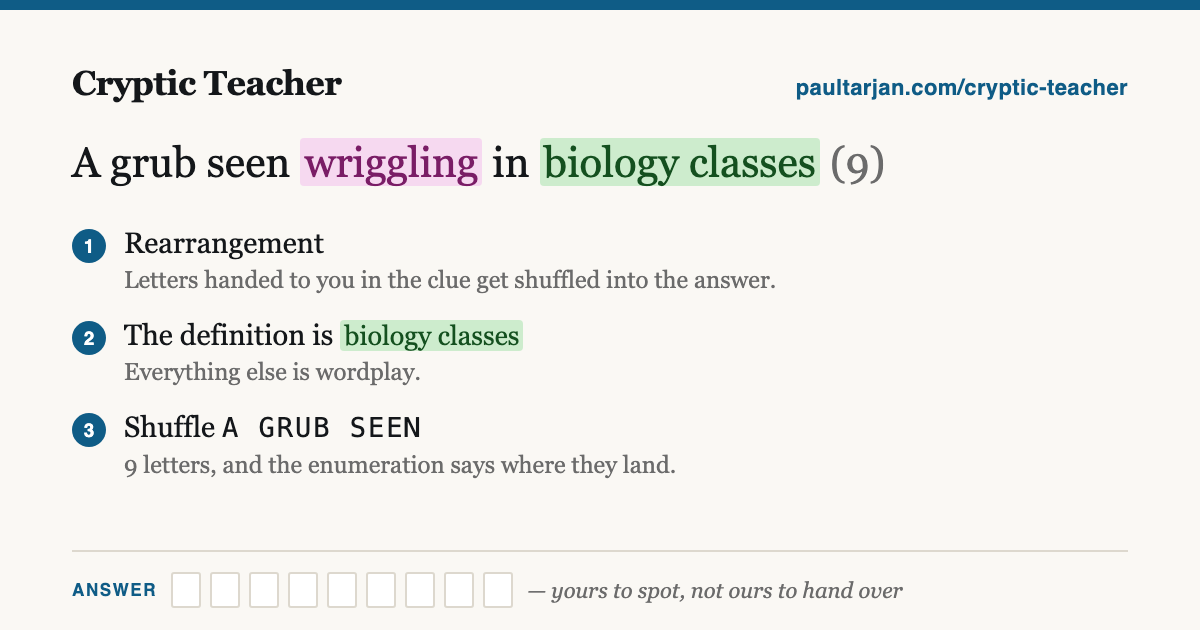
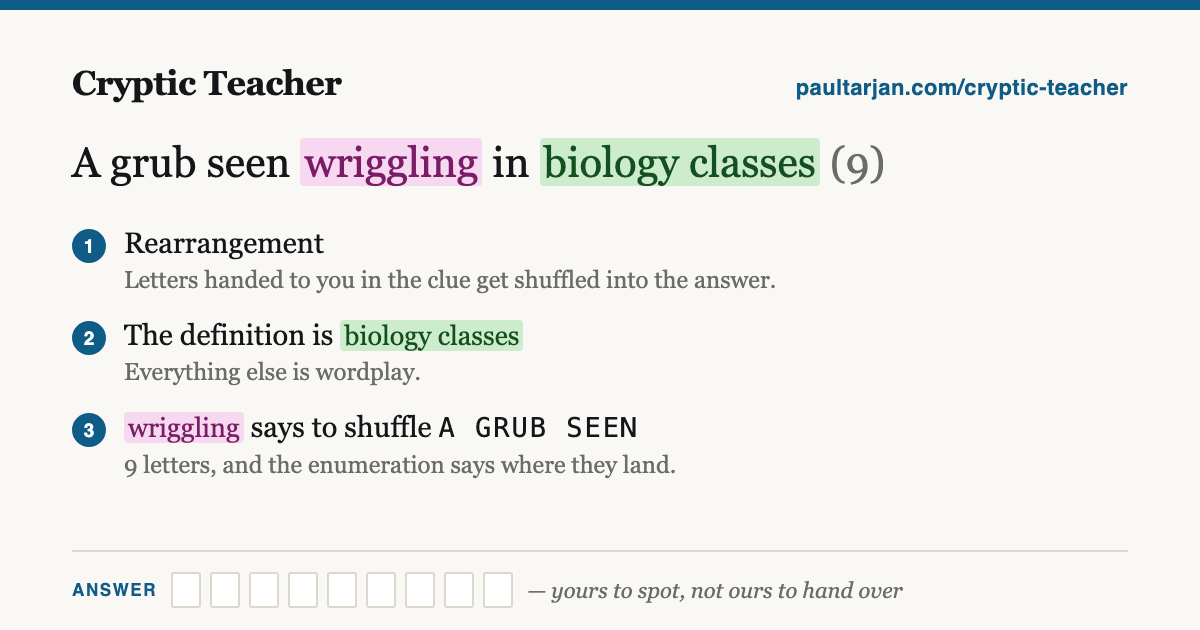
An anagram indicator cannot be made of the fodder's own letters
Reviewing 30,079's card I called its indicator wrong: "School" looked odd and
"to spin" looked like the obvious anagram indicator. It wasn't — spin is inside
the fodder PAID TO SPIN, so its letters were already spoken for, and the
annotation was right all along.

check_indicator_outside_fodder now decides this instead of eyes. Adjacency
cannot: it measures the gap between indicator and fodder, and an indicator
sitting inside the fodder has no gap at all, so it scored as perfectly placed.
Zero violations across all 116 annotations carrying a fodder.

The card was complicit — it painted the indicator pink and never mentioned it,
so rung 3 now reads "<ind> says to shuffle <fodder>". A mark the prose never
explains is a claim the reader takes on trust, and this one didn't survive it.

Changed region(s): [[0.0925, 0.6333, 0.555, 0.7238]]

diff --git a/puzzles/30071/index.html b/puzzles/30071/index.html
@@ -16,7 +16,7 @@
 <meta property="og:title" content="Guardian Cryptic Crossword No 30,071 by Brendan — answers explained">
 <meta property="og:description" content="Every clue in Guardian cryptic crossword No 30,071 by Brendan, published 29 July 2026, with the answer, the definition and how the wordplay works.">
 <meta property="og:url" content="https://paultarjan.com/cryptic-teacher/puzzles/30071/">
-<meta property="og:image" content="https://paultarjan.com/cryptic-teacher/og/30071.png?v=6ce93dee">
+<meta property="og:image" content="https://paultarjan.com/cryptic-teacher/og/30071.png?v=bb0208e5">
 <meta property="og:image:alt" content="The cryptic clue &quot;Owner of trunk that must be repacked for the plane (8)&quot; taken apart: the definition marked, the letters to be rearranged spelled out, and the answer itself left blank.">
 <meta name="twitter:card" content="summary_large_image">
 <script type="application/ld+json">{"@context":"https://schema.org","@type":"Article","headline":"Guardian Cryptic Crossword No 30,071 by Brendan — answers explained","url":"https://paultarjan.com/cryptic-teacher/puzzles/30071/","description":"Every clue in Guardian cryptic crossword No 30,071 by Brendan, published 29 July 2026, with the answer, the definition and how the wordplay works.","author":{"@type":"Person","name":"Paul Tarjan","url":"https://paultarjan.com/"},"isAccessibleForFree":true,"about":{"@type":"Game","name":"Guardian Cryptic Crossword No 30,071"},"datePublished":"2026-07-29"}</script>

diff --git a/puzzles/30066/index.html b/puzzles/30066/index.html
@@ -16,7 +16,7 @@
 <meta property="og:title" content="Guardian Cryptic Crossword No 30,066 by Tramp — answers explained">
 <meta property="og:description" content="Every clue in Guardian cryptic crossword No 30,066 by Tramp, published 23 July 2026, with the answer, the definition and how the wordplay works.">
 <meta property="og:url" content="https://paultarjan.com/cryptic-teacher/puzzles/30066/">
-<meta property="og:image" content="https://paultarjan.com/cryptic-teacher/og/30066.png?v=2eae22b3">
+<meta property="og:image" content="https://paultarjan.com/cryptic-teacher/og/30066.png?v=2caf37da">
 <meta property="og:image:alt" content="The cryptic clue &quot;Destroying climate, sun reaches highest point (10)&quot; taken apart: the definition marked, the letters to be rearranged spelled out, and the answer itself left blank.">
 <meta name="twitter:card" content="summary_large_image">
 <script type="application/ld+json">{"@context":"https://schema.org","@type":"Article","headline":"Guardian Cryptic Crossword No 30,066 by Tramp — answers explained","url":"https://paultarjan.com/cryptic-teacher/puzzles/30066/","description":"Every clue in Guardian cryptic crossword No 30,066 by Tramp, published 23 July 2026, with the answer, the definition and how the wordplay works.","author":{"@type":"Person","name":"Paul Tarjan","url":"https://paultarjan.com/"},"isAccessibleForFree":true,"about":{"@type":"Game","name":"Guardian Cryptic Crossword No 30,066"},"datePublished":"2026-07-23"}</script>

diff --git a/puzzles/30046/index.html b/puzzles/30046/index.html
@@ -16,7 +16,7 @@
 <meta property="og:title" content="Guardian Cryptic Crossword No 30,046 by Imogen — answers explained">
 <meta property="og:description" content="Every clue in Guardian cryptic crossword No 30,046 by Imogen, published 30 June 2026, with the answer, the definition and how the wordplay works.">
 <meta property="og:url" content="https://paultarjan.com/cryptic-teacher/puzzles/30046/">
-<meta property="og:image" content="https://paultarjan.com/cryptic-teacher/og/30046.png?v=b0484241">
+<meta property="og:image" content="https://paultarjan.com/cryptic-teacher/og/30046.png?v=7e0d65e3">
 <meta property="og:image:alt" content="The cryptic clue &quot;Bail due to be reviewed in hearing (7)&quot; taken apart: the definition marked, the letters to be rearranged spelled out, and the answer itself left blank.">
 <meta name="twitter:card" content="summary_large_image">
 <script type="application/ld+json">{"@context":"https://schema.org","@type":"Article","headline":"Guardian Cryptic Crossword No 30,046 by Imogen — answers explained","url":"https://paultarjan.com/cryptic-teacher/puzzles/30046/","description":"Every clue in Guardian cryptic crossword No 30,046 by Imogen, published 30 June 2026, with the answer, the definition and how the wordplay works.","author":{"@type":"Person","name":"Paul Tarjan","url":"https://paultarjan.com/"},"isAccessibleForFree":true,"about":{"@type":"Game","name":"Guardian Cryptic Crossword No 30,046"},"datePublished":"2026-06-30"}</script>

diff --git a/puzzles/30042/index.html b/puzzles/30042/index.html
@@ -16,7 +16,7 @@
 <meta property="og:title" content="Guardian Cryptic Crossword No 30,042 by Paul — answers explained">
 <meta property="og:description" content="Every clue in Guardian cryptic crossword No 30,042 by Paul, published 25 June 2026, with the answer, the definition and how the wordplay works.">
 <meta property="og:url" content="https://paultarjan.com/cryptic-teacher/puzzles/30042/">
-<meta property="og:image" content="https://paultarjan.com/cryptic-teacher/og/30042.png?v=388c972e">
+<meta property="og:image" content="https://paultarjan.com/cryptic-teacher/og/30042.png?v=fe10f3f1">
 <meta property="og:image:alt" content="The cryptic clue &quot;A grub seen wriggling in biology classes (9)&quot; taken apart: the definition marked, the letters to be rearranged spelled out, and the answer itself left blank.">
 <meta name="twitter:card" content="summary_large_image">
 <script type="application/ld+json">{"@context":"https://schema.org","@type":"Article","headline":"Guardian Cryptic Crossword No 30,042 by Paul — answers explained","url":"https://paultarjan.com/cryptic-teacher/puzzles/30042/","description":"Every clue in Guardian cryptic crossword No 30,042 by Paul, published 25 June 2026, with the answer, the definition and how the wordplay works.","author":{"@type":"Person","name":"Paul Tarjan","url":"https://paultarjan.com/"},"isAccessibleForFree":true,"about":{"@type":"Game","name":"Guardian Cryptic Crossword No 30,042"},"datePublished":"2026-06-25"}</script>

diff --git a/puzzles/30079/index.html b/puzzles/30079/index.html
@@ -16,7 +16,7 @@
 <meta property="og:title" content="Guardian Cryptic Crossword No 30,079 by Fed — answers explained">
 <meta property="og:description" content="Every clue in Guardian cryptic crossword No 30,079 by Fed, published 7 August 2026, with the answer, the definition and how the wordplay works.">
 <meta property="og:url" content="https://paultarjan.com/cryptic-teacher/puzzles/30079/">
-<meta property="og:image" content="https://paultarjan.com/cryptic-teacher/og/30079.png?v=9271ecd4">
+<meta property="og:image" content="https://paultarjan.com/cryptic-teacher/og/30079.png?v=e0800c64">
 <meta property="og:image:alt" content="The cryptic clue &quot;School paid to spin results in mock (10)&quot; taken apart: the definition marked, the letters to be rearranged spelled out, and the answer itself left blank.">
 <meta name="twitter:card" content="summary_large_image">
 <script type="application/ld+json">{"@context":"https://schema.org","@type":"Article","headline":"Guardian Cryptic Crossword No 30,079 by Fed — answers explained","url":"https://paultarjan.com/cryptic-teacher/puzzles/30079/","description":"Every clue in Guardian cryptic crossword No 30,079 by Fed, published 7 August 2026, with the answer, the definition and how the wordplay works.","author":{"@type":"Person","name":"Paul Tarjan","url":"https://paultarjan.com/"},"isAccessibleForFree":true,"about":{"@type":"Game","name":"Guardian Cryptic Crossword No 30,079"},"datePublished":"2026-08-07"}</script>

diff --git a/puzzles/30047/index.html b/puzzles/30047/index.html
@@ -16,7 +16,7 @@
 <meta property="og:title" content="Guardian Cryptic Crossword No 30,047 by Fed — answers explained">
 <meta property="og:description" content="Every clue in Guardian cryptic crossword No 30,047 by Fed, published 1 July 2026, with the answer, the definition and how the wordplay works.">
 <meta property="og:url" content="https://paultarjan.com/cryptic-teacher/puzzles/30047/">
-<meta property="og:image" content="https://paultarjan.com/cryptic-teacher/og/30047.png?v=9ac05346">
+<meta property="og:image" content="https://paultarjan.com/cryptic-teacher/og/30047.png?v=17bdd0e1">
 <meta property="og:image:alt" content="The cryptic clue &quot;Charmed by change of demeanour (9)&quot; taken apart: the definition marked, the letters to be rearranged spelled out, and the answer itself left blank.">
 <meta name="twitter:card" content="summary_large_image">
 <script type="application/ld+json">{"@context":"https://schema.org","@type":"Article","headline":"Guardian Cryptic Crossword No 30,047 by Fed — answers explained","url":"https://paultarjan.com/cryptic-teacher/puzzles/30047/","description":"Every clue in Guardian cryptic crossword No 30,047 by Fed, published 1 July 2026, with the answer, the definition and how the wordplay works.","author":{"@type":"Person","name":"Paul Tarjan","url":"https://paultarjan.com/"},"isAccessibleForFree":true,"about":{"@type":"Game","name":"Guardian Cryptic Crossword No 30,047"},"datePublished":"2026-07-01"}</script>

diff --git a/tools/validate_annotations.py b/tools/validate_annotations.py
@@ -23,6 +23,7 @@ And five checks that apply only to puzzles we WROTE (see is_authored):
     spell the answer out (check_walkthrough_budget)
   - every linkWord stands in for an equals sign (check_link_words_are_equivalences)
   - an anagram indicator touches its fodder (check_indicator_adjacency)
+  - and is not made of the fodder's own letters (check_indicator_outside_fodder)
   - a reversal indicator points the way the entry runs (check_reversal_direction)
 
 And one whole-puzzle check:
@@ -339,6 +340,45 @@ def check_indicator_adjacency(tag, ann, clue, errors, warnings):
         f"{', '.join(best[1])} — an indicator only operates on what it stands next to. "
         f"Move it against the fodder, or cut the words in between (AUTHORING.md, "
         f"'An indicator operates on what it touches')")
+
+
+def check_indicator_outside_fodder(tag, ann, clue, errors):
+    """An anagram indicator cannot be made of letters the anagram eats.
+
+    The instruction and the material are two different jobs, and one word cannot
+    hold both: if `spin` is inside PAID TO SPIN then its letters are already
+    spoken for, and whatever tells you to shuffle them has to be some other word.
+    Obvious once stated, and easy to get backwards anyway — `spin`, `cooked`,
+    `broken`, `wild` all read as instructions wherever they appear, so a reader
+    (or a model annotating in bulk) will happily nominate one that is really
+    fodder. That is exactly what happened on 30,079 13D, where the annotation had
+    it right and a human review of the card had it wrong.
+
+    Adjacency alone cannot catch this: check_indicator_adjacency measures the gap
+    BETWEEN indicator and fodder, and an indicator sitting inside the fodder has
+    no gap at all, so it scores as perfectly placed.
+
+    Only flagged when every locatable reading of the fodder swallows the
+    indicator, matching the adjacency check's rule that any clean reading wins.
+
+    CALIBRATION (2026-08-08, all 116 annotations carrying a fodder): 0 flagged.
+    A guard against a future annotation, not a description of a present one.
+    """
+    if not ann.get("anagram"):
+        return
+    spans = _fodder_spans(clue, ann["anagram"].get("fodder"), ann.get("blocks", []))
+    if not spans:
+        return
+    for ind in ann.get("indicators", []):
+        i = clue.find(ind)
+        if i < 0:
+            continue
+        if all(i < fe and i + len(ind) > fs for fs, fe in spans):
+            errors.append(
+                f"{tag}: anagram indicator {ind!r} sits inside the fodder "
+                f"{ann['anagram']['fodder']!r} — its letters are already being "
+                f"shuffled, so it cannot also be the instruction to shuffle them. "
+                f"The indicator is some other word in the clue.")
 
 
 # A reversal runs along the entry, so the indicator has to name the entry's own
@@ -748,6 +788,7 @@ def validate_puzzle(puzzle):
             check_walkthrough_budget(tag, ann, warnings)
             check_link_words_are_equivalences(tag, ann, errors)
             check_indicator_adjacency(tag, ann, clue, errors, warnings)
+            check_indicator_outside_fodder(tag, ann, clue, errors)
             check_reversal_direction(tag, ann, e["direction"], errors)
         walk = ann.get("walkthrough") or ""
         low = walk.lower()

diff --git a/tools/make_og_card.py b/tools/make_og_card.py
@@ -320,8 +320,18 @@ def rungs_for(p):
                     "says so out loud",
                     "The underline is the answer, in order, straddling the words."))
     elif p["fodder"]:
+        # Name the indicator, don't just paint it. The card marks it pink in the
+        # clue either way, and a pink word the rungs never mention reads as an
+        # unexplained claim — on 30,079 it was enough to make me doubt a correct
+        # annotation, when the actual answer was that the obvious-looking
+        # candidate was inside the fodder and this word was the real one.
         n = len(re.sub(r"[^A-Za-z]", "", p["fodder"]))
-        out.append((f'Shuffle <span class="fodder">{html.escape(p["fodder"])}</span>',
+        head = f'Shuffle <span class="fodder">{html.escape(p["fodder"])}</span>'
+        if p["indicator"]:
+            head = (f'<mark class="ind">{html.escape(p["indicator"])}</mark> '
+                    f'says to shuffle <span class="fodder">'
+                    f'{html.escape(p["fodder"])}</span>')
+        out.append((head,
                     f"{n} letters, and the enumeration says where they land."))
     elif p["indicator"]:
         out.append((f'The instruction is <mark class="ind">'

diff --git a/STYLE.md b/STYLE.md
@@ -532,6 +532,20 @@ all 55:
   describe a clue differently from the app that teaches it. A puzzle with no
   clue that qualifies keeps the site card; shipping a weak card is worse than
   shipping the generic one.
+- **A word being shuffled cannot be the word that says to shuffle**
+  (2026-08-08). Reviewing 30,079's card I called its indicator wrong — "School"
+  looked odd and "to spin" looked like the obvious anagram indicator. It wasn't:
+  `spin` is inside the fodder PAID TO SPIN, so its letters were already spoken
+  for, and the annotation was right. The failure is text matching over structure
+  — `spin`, `cooked`, `broken`, `wild` read as instructions wherever they sit, so
+  eyes and bulk annotation alike will nominate one that is really material. Now
+  `check_indicator_outside_fodder` decides it, because adjacency cannot: an
+  indicator inside its fodder has no gap to measure and scores as perfectly
+  placed. Zero violations across all 116 annotations carrying a fodder — a guard
+  against a future one. The card was complicit too: it painted the indicator pink
+  and never mentioned it, so rung 3 now reads "<ind> says to shuffle <fodder>"
+  rather than "Shuffle <fodder>". A mark the prose never explains is a claim the
+  reader has to take on trust, and this one didn't survive being taken on trust.
 - **Two renderings of one link must share one joiner** (Search Console,
   2026-08-07). Breadcrumb crumbs were `("Puzzles", "/puzzles/")`, and
   `breadcrumb_ld()` joined them to BASE while `masthead()` emitted them raw — so

diff --git a/tools/AUTHORING.md b/tools/AUTHORING.md
@@ -611,9 +611,10 @@ it survived calibration:
 | --- | --- | --- |
 | Link words are an equals sign | `check_link_words_are_equivalences` | equivalence (`is`, `'s`), derivation (`gives`, `makes`, `becomes`, `yields`, `means`, `leads to`, `indicating`, `to locate`), prepositional joining (`for`, `from`, `of`, `in`, `with`, `after`), and grammatical glue. Nothing else — `EQUIVALENCE_LINKS` is the whole rule |
 | An indicator operates on what it touches | `check_indicator_adjacency` | only `FODDER_GLUE` between an anagram indicator and its fodder (`was`, `is`, `a`, `the`, `of`, `in`, `with`), plus the definition, which does sometimes sit in the gap |
+| An indicator is not its own fodder | `check_indicator_outside_fodder` | nothing: a word whose letters are being shuffled cannot also be the instruction to shuffle them, so the indicator must sit outside every locatable reading of the fodder. Adjacency can't see this — an indicator inside the fodder has no gap to measure, and scores as perfectly placed |
 | A reversal runs along the entry | `check_reversal_direction` | across: `back`, `returning`, `retreating`, `west`. Down: `up`, `rising`, `climbing`, `lifted`, `raised`, `from below`. Neutral (`turning`, `about`, `overturned`, `revolutionary`, `reversal`) is always safe |
 
-All three are ERRORs, scoped by `is_authored()` like the two-pieces rule.
+All four are ERRORs, scoped by `is_authored()` like the two-pieces rule.
 
 ### Calibration, which is the part that matters
 
